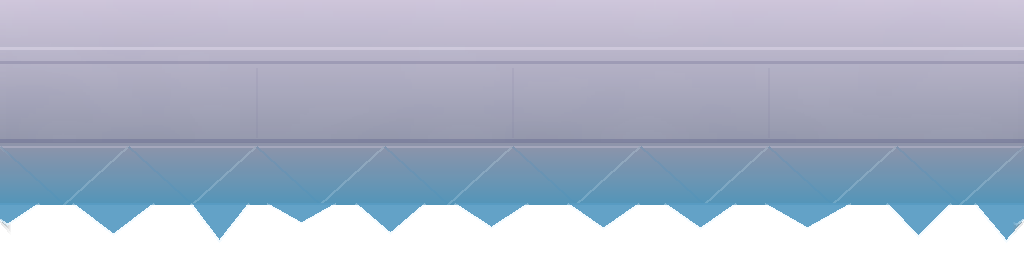
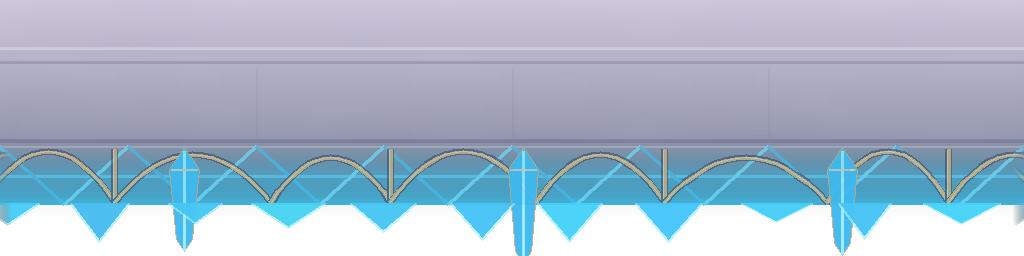
feat(fracture): emphasize crystalline traversal art

Changed region(s): [[0.0, 0.5625, 1.0, 1.0]]

diff --git a/HiddenWeight/Assets/Tests/EditMode/FractureTraversalAssetTests.cs b/HiddenWeight/Assets/Tests/EditMode/FractureTraversalAssetTests.cs
@@ -57,6 +57,34 @@ namespace HiddenWeight.Tests
         }
 
         [Test]
+        public void Fracture_SurfaceMiddle은_결정강조형의_청록광과_금속아치가_있다()
+        {
+            const string assetPath =
+                TerrainRoot + "/Fracture_TraversalSurfaceMiddle_v3.png";
+            string fullPath = Path.Combine(Application.dataPath, "..", assetPath);
+            var texture = new Texture2D(2, 2, TextureFormat.RGBA32, false);
+            Assert.IsTrue(ImageConversion.LoadImage(
+                texture, File.ReadAllBytes(fullPath)), assetPath);
+
+            Color32[] pixels = texture.GetPixels32();
+            int brightCyan = pixels.Count(pixel => pixel.a > 0
+                && pixel.b - pixel.r >= 50
+                && pixel.g - pixel.r >= 25
+                && pixel.g >= 175
+                && pixel.b >= 200);
+            int warmMetal = pixels.Count(pixel => pixel.a > 0
+                && pixel.r >= 130
+                && pixel.r - pixel.g <= 35
+                && pixel.g - pixel.b >= 18);
+
+            Assert.Greater(brightCyan, 1500,
+                assetPath + " has too little cyan crystal glow");
+            Assert.Greater(warmMetal, 1000,
+                assetPath + " has no readable ruined-gothic metal arcade");
+            Object.DestroyImmediate(texture);
+        }
+
+        [Test]
         public void Fracture_생성씬_배경은_카메라추적_모드다()
         {
             string[] rooms =
